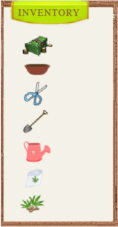
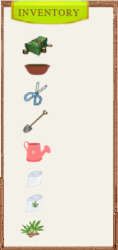
Sinais nas portas + adição de empty bags ao inventory

diff --git a/CrazyGame/src/org/academiadecodigo/sshpecials/testing/UserInterface.java b/CrazyGame/src/org/academiadecodigo/sshpecials/testing/UserInterface.java
@@ -30,6 +30,7 @@ public class UserInterface {
     private Text waterCanCounter;
     private Text shovelCounter;
     private Text scissorsCounter;
+    private Text emptyBagsCounter;
     private Text weedSeedsCounter;
     private Text weedBagsCounter;
 
@@ -44,7 +45,7 @@ public class UserInterface {
 
         this.inventory = inventory;
 
-        this.counters = new Text[7];
+        this.counters = new Text[8];
 
         init();
     }
@@ -58,6 +59,7 @@ public class UserInterface {
         counters[4] = weedSeedsCounter;
         counters[5] = weedBagsCounter;
         counters[6] = moneyCounter;
+        counters[7] = emptyBagsCounter;
 
         for(int i = 0; i < counters.length; i++) {
             counters[i].setColor(Color.BLACK);
@@ -101,8 +103,9 @@ public class UserInterface {
         scissorsCounter = new Text(TEXT_X, 96, " x " + inventory.keyCount(SCISSORS));
         shovelCounter = new Text(TEXT_X, 123, " x " + inventory.keyCount(SHOVEL));
         waterCanCounter = new Text(TEXT_X, 151, " x " + inventory.keyCount(WATER_CAN));
-        weedBagsCounter = new Text(TEXT_X, 179, " x " + inventory.keyCount(WEED_BAGS));
-        weedSeedsCounter = new Text(TEXT_X, 205, " x " + inventory.keyCount(WEED_SEEDS));
+        emptyBagsCounter = new Text(TEXT_X, 179, " x " + inventory.keyCount(EMPTY_BAGS));
+        weedBagsCounter = new Text(TEXT_X, 205, " x " + inventory.keyCount(WEED_BAGS));
+        weedSeedsCounter = new Text(TEXT_X, 230, " x " + inventory.keyCount(WEED_SEEDS));
 
 
         uberRequest = new Text(15, 300, "");
@@ -114,6 +117,7 @@ public class UserInterface {
        shovelCounter.setText(" x " + inventory.keyCount(SHOVEL));
        waterCanCounter.setText(" x " + inventory.keyCount(WATER_CAN));
        scissorsCounter.setText(" x " + inventory.keyCount(SCISSORS));
+       emptyBagsCounter.setText(" x " + inventory.keyCount(EMPTY_BAGS));
        weedSeedsCounter.setText(" x " + inventory.keyCount(WEED_SEEDS));
        weedBagsCounter.setText(" x " + inventory.keyCount(WEED_BAGS));
        moneyCounter.setText(" x " + inventory.keyCount(MONEY));

diff --git a/CrazyGame/src/org/academiadecodigo/sshpecials/gameObjects/Vase/VaseOne.java b/CrazyGame/src/org/academiadecodigo/sshpecials/gameObjects/Vase/VaseOne.java
@@ -148,11 +148,15 @@ public class VaseOne extends Vase implements Interactable {
                         vaseStartTime = System.currentTimeMillis();
                     }
                     if (isReadyToChange()) {
-                        inventory.add(ItemType.WEED_BAGS, 50);
-                        VASESTATE = VaseOneStateType.EMPTY_VASE;
-                        super.changePicture(VASESTATE.x, VASESTATE.y, VASESTATE.picturePath);
-                        vaseStartTime = 0;
-                        return true;
+                        if(inventory.keyCount(ItemType.EMPTY_BAGS) >= 50){
+                            inventory.add(ItemType.WEED_BAGS, 50);
+                            inventory.remove(ItemType.EMPTY_BAGS, 50);
+                            VASESTATE = VaseOneStateType.EMPTY_VASE;
+                            super.changePicture(VASESTATE.x, VASESTATE.y, VASESTATE.picturePath);
+                            vaseStartTime = 0;
+                            return true;
+                        }
+
                     }
                 }
                 break;

diff --git a/CrazyGame/src/org/academiadecodigo/sshpecials/gameObjects/Vase/VaseThree.java b/CrazyGame/src/org/academiadecodigo/sshpecials/gameObjects/Vase/VaseThree.java
@@ -148,11 +148,14 @@ public class VaseThree extends Vase {
                         vaseStartTime = System.currentTimeMillis();
                     }
                     if (isReadyToChange()) {
-                        inventory.add(ItemType.WEED_BAGS, 50);
-                        VASESTATE = VaseThreeStateType.EMPTY_VASE;
-                        super.changePicture(VASESTATE.x, VASESTATE.y, VASESTATE.picturePath);
-                        vaseStartTime = 0;
-                        return true;
+                        if(inventory.keyCount(ItemType.EMPTY_BAGS) >= 50){
+                            inventory.add(ItemType.WEED_BAGS, 50);
+                            inventory.remove(ItemType.EMPTY_BAGS, 50);
+                            VASESTATE = VaseThreeStateType.EMPTY_VASE;
+                            super.changePicture(VASESTATE.x, VASESTATE.y, VASESTATE.picturePath);
+                            vaseStartTime = 0;
+                            return true;
+                        }
                     }
                 }
                 break;

diff --git a/CrazyGame/src/org/academiadecodigo/sshpecials/gameObjects/Vase/VaseTwo.java b/CrazyGame/src/org/academiadecodigo/sshpecials/gameObjects/Vase/VaseTwo.java
@@ -150,11 +150,14 @@ public class VaseTwo extends Vase {
                         vaseStartTime = System.currentTimeMillis();
                     }
                     if (isReadyToChange()) {
-                        inventory.add(ItemType.WEED_BAGS, 50);
-                        VASESTATE = VaseTwoStateType.EMPTY_VASE;
-                        super.changePicture(VASESTATE.x, VASESTATE.y, VASESTATE.picturePath);
-                        vaseStartTime = 0;
-                        return true;
+                        if(inventory.keyCount(ItemType.EMPTY_BAGS) >= 50){
+                            inventory.add(ItemType.WEED_BAGS, 50);
+                            inventory.remove(ItemType.EMPTY_BAGS, 50);
+                            VASESTATE = VaseTwoStateType.EMPTY_VASE;
+                            super.changePicture(VASESTATE.x, VASESTATE.y, VASESTATE.picturePath);
+                            vaseStartTime = 0;
+                            return true;
+                        }
                     }
                 }
                 break;

diff --git a/CrazyGame/src/org/academiadecodigo/sshpecials/gameObjects/Person/StoreVendor.java b/CrazyGame/src/org/academiadecodigo/sshpecials/gameObjects/Person/StoreVendor.java
@@ -30,7 +30,7 @@ public class StoreVendor extends Person{
             case 2 -> ItemType.WATER_CAN;
             case 3 -> ItemType.SHOVEL;
             case 4 -> ItemType.SCISSORS;
-            case 5 -> ItemType.WEED_BAGS;
+            case 5 -> ItemType.EMPTY_BAGS;
             default -> ItemType.VASE;
 
         };

diff --git a/CrazyGame/src/org/academiadecodigo/sshpecials/testing/Inventory.java b/CrazyGame/src/org/academiadecodigo/sshpecials/testing/Inventory.java
@@ -34,6 +34,7 @@ public class Inventory {
         add(SHOVEL, 1);
         add(SCISSORS, 1);
         add(WEED_SEEDS, 1000);
+        add(EMPTY_BAGS, 10);
         add(WEED_BAGS, 0);
         add(WEED_FOR_SMOKE, 0);
         add(MONEY, 500);

diff --git a/CrazyGame/src/org/academiadecodigo/sshpecials/testing/ItemType.java b/CrazyGame/src/org/academiadecodigo/sshpecials/testing/ItemType.java
@@ -7,6 +7,7 @@ public enum ItemType {
     SHOVEL(10, 1),
     SCISSORS(10, 1),
     WEED_SEEDS(10, 10),
+    EMPTY_BAGS(10, 10),
     WEED_BAGS(10, 10),
     WEED_FOR_SMOKE(0, 0),
     MONEY(0, 0);
